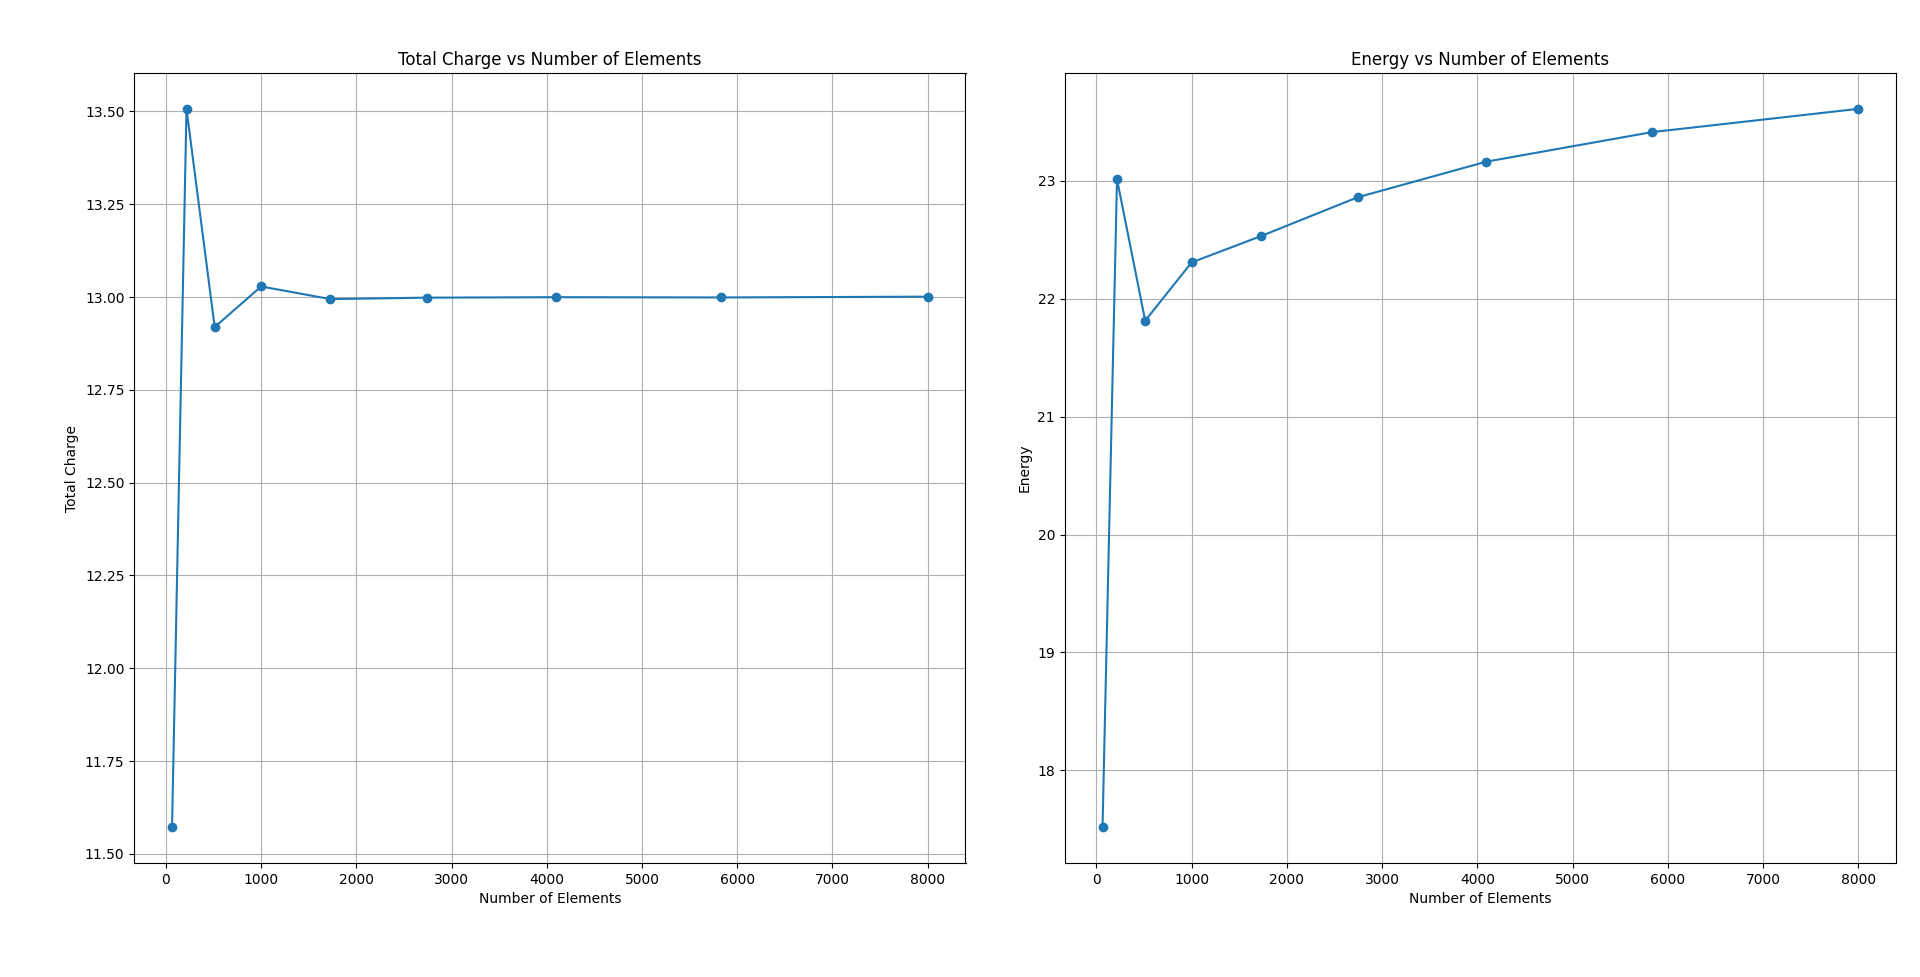
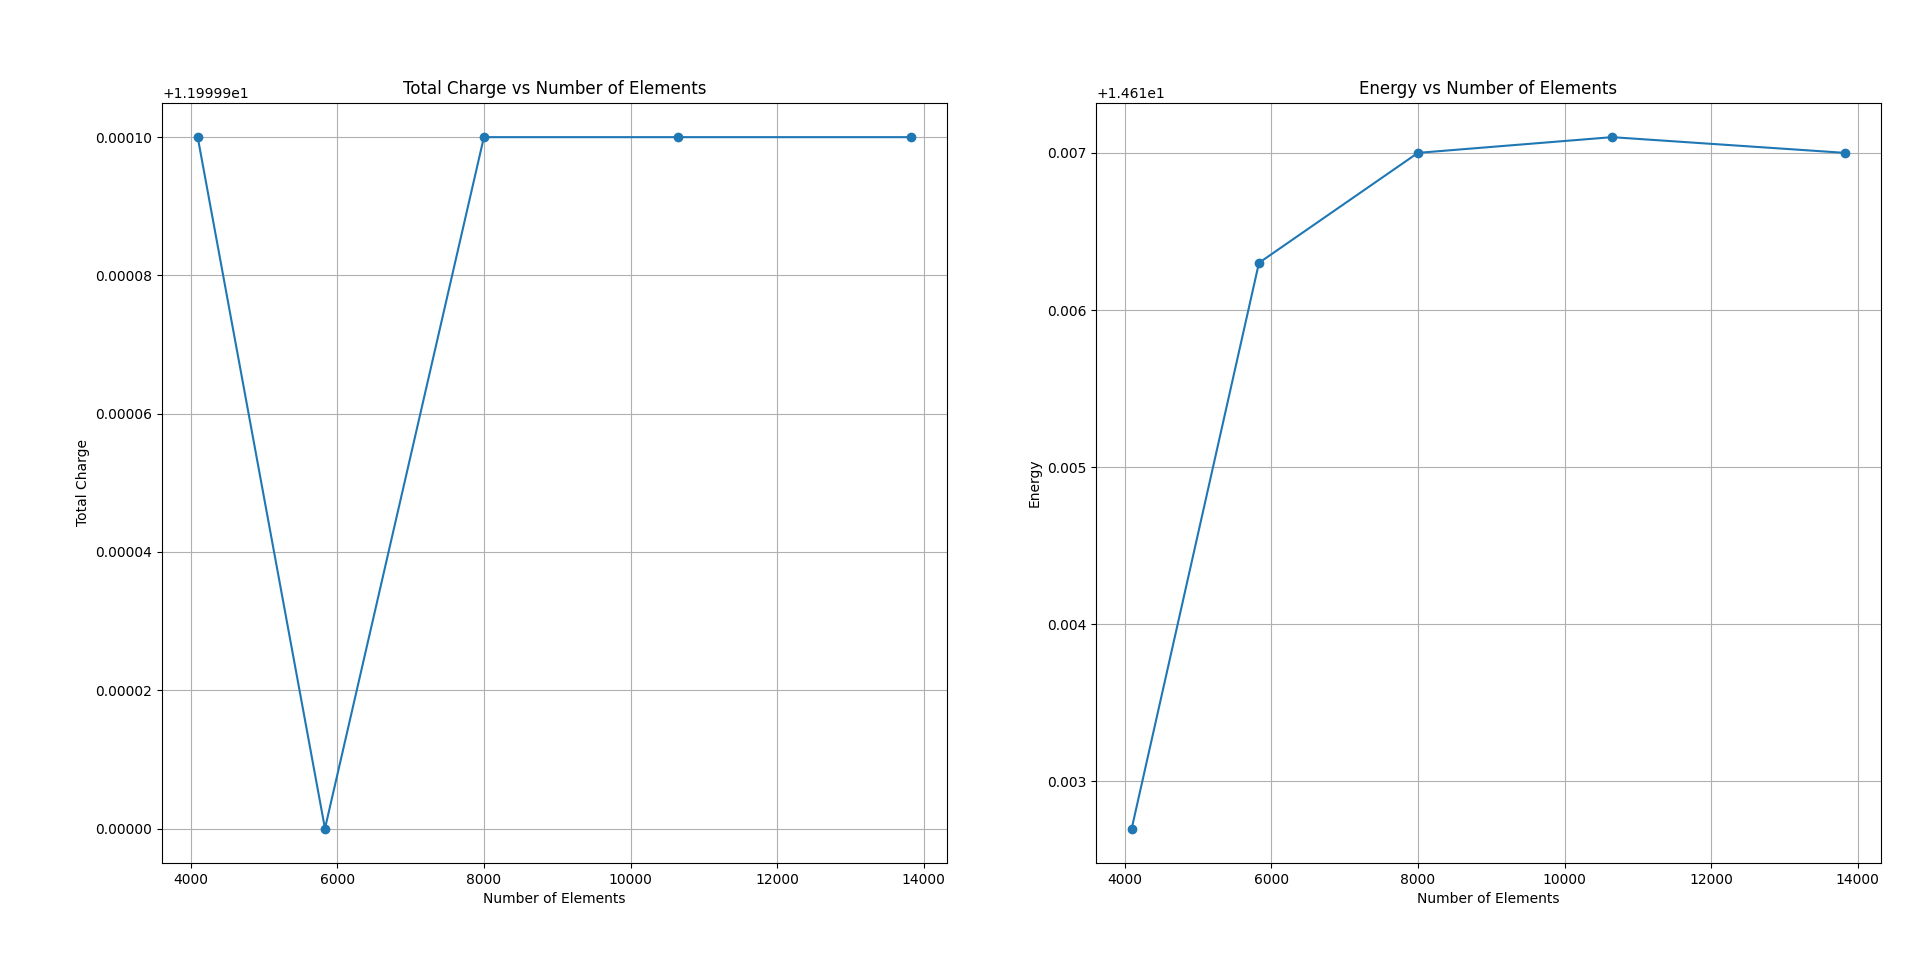
fixed boundary condn

diff --git a/Generalized Poisson Eqn/poisson_101.cpp b/Generalized Poisson Eqn/poisson_101.cpp
@@ -25,8 +25,8 @@
 using namespace dealii;
 
 #define r_c 0.7 // Less than half the distance between the two nuclei
-#define r_c_squared r_c * r_c
-#define r_c_8 r_c_squared * r_c_squared * r_c_squared * r_c_squared
+#define r_c_squared (r_c * r_c)
+#define r_c_8 (r_c_squared * r_c_squared * r_c_squared * r_c_squared)
 #define PI 3.14159265358979323846
 
 
@@ -83,7 +83,7 @@ class CoullombPotential : public Function<dim>
             if (r < 1e-12)
                 return charge / 1e-12;
 
-            return charge / r;
+            return charge / (4.0 * M_PI * r);
         }
 };
 
@@ -232,7 +232,7 @@ void Poisson<dim>::assemble_system(SmearedCharge<dim> &forcing_function, Coullom
 template <int dim>
 int Poisson<dim>::solve(bool verbose)
 {
-    SolverControl solver_control(1000, 1e-12 * system_rhs.l2_norm()); // Max 1000 iterations, tolerance 1e-12 * ||b|| (initial residual)
+    SolverControl solver_control(1000, 1e-10); // Max 1000 iterations, tolerance 1e-10 i.e. ||Ax-b|| < 1e-10
     SolverCG<Vector<double>> solver(solver_control);
 
     solver.solve(system_matrix, solution, system_rhs, PreconditionIdentity());
@@ -383,14 +383,14 @@ int main()
     SmearedCharge<3> forcing_term;
     CoullombPotential<3> boundary_term;
 
-    forcing_term.charge = 13.0;
-    boundary_term.charge = 13.0;
+    forcing_term.charge = 12.0;
+    boundary_term.charge = 12.0;
 
     std::ofstream file("energy_convergence.csv");
     file << "cells_per_edge,total_cells,total_charge,energy,steps\n";
 
-    for (unsigned int cells_per_edge = 10;
-         cells_per_edge <= 20;
+    for (unsigned int cells_per_edge = 16;
+         cells_per_edge <= 24;
          cells_per_edge += 2)
     {
         std::cout << "\n=====================================\n";
@@ -402,8 +402,8 @@ int main()
 
         poisson_problem.setup_system(
             cells_per_edge,
-            -15.0,
-             15.0);
+            -5.0,
+             5.0);
 
         poisson_problem.assemble_system(
             forcing_term,
@@ -415,7 +415,7 @@ int main()
                 poisson_problem.fe,
                 poisson_problem.dof_handler);
 
-        int steps = poisson_problem.solve(false);
+        int steps = poisson_problem.solve(true);
 
         const double energy =
             electrostatic_energy(